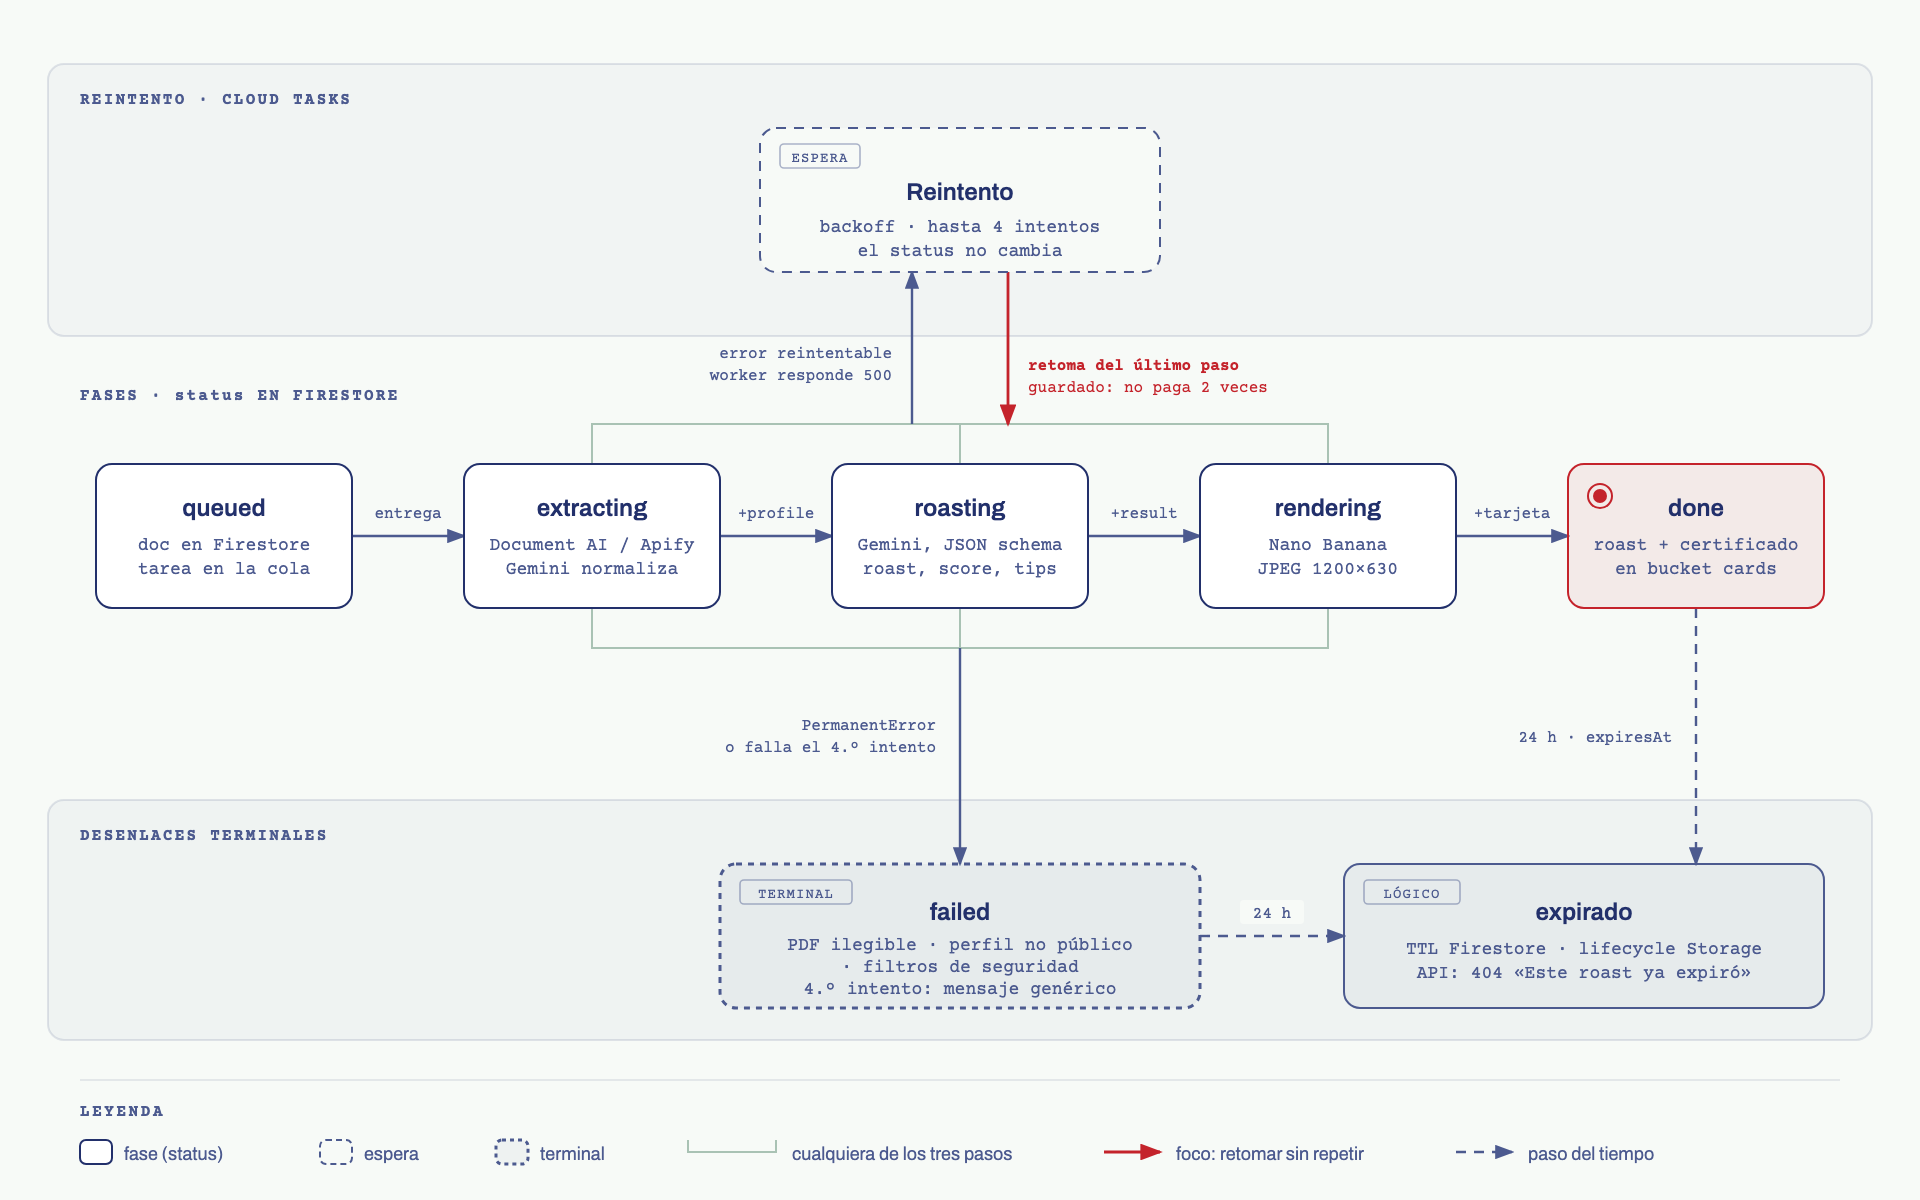
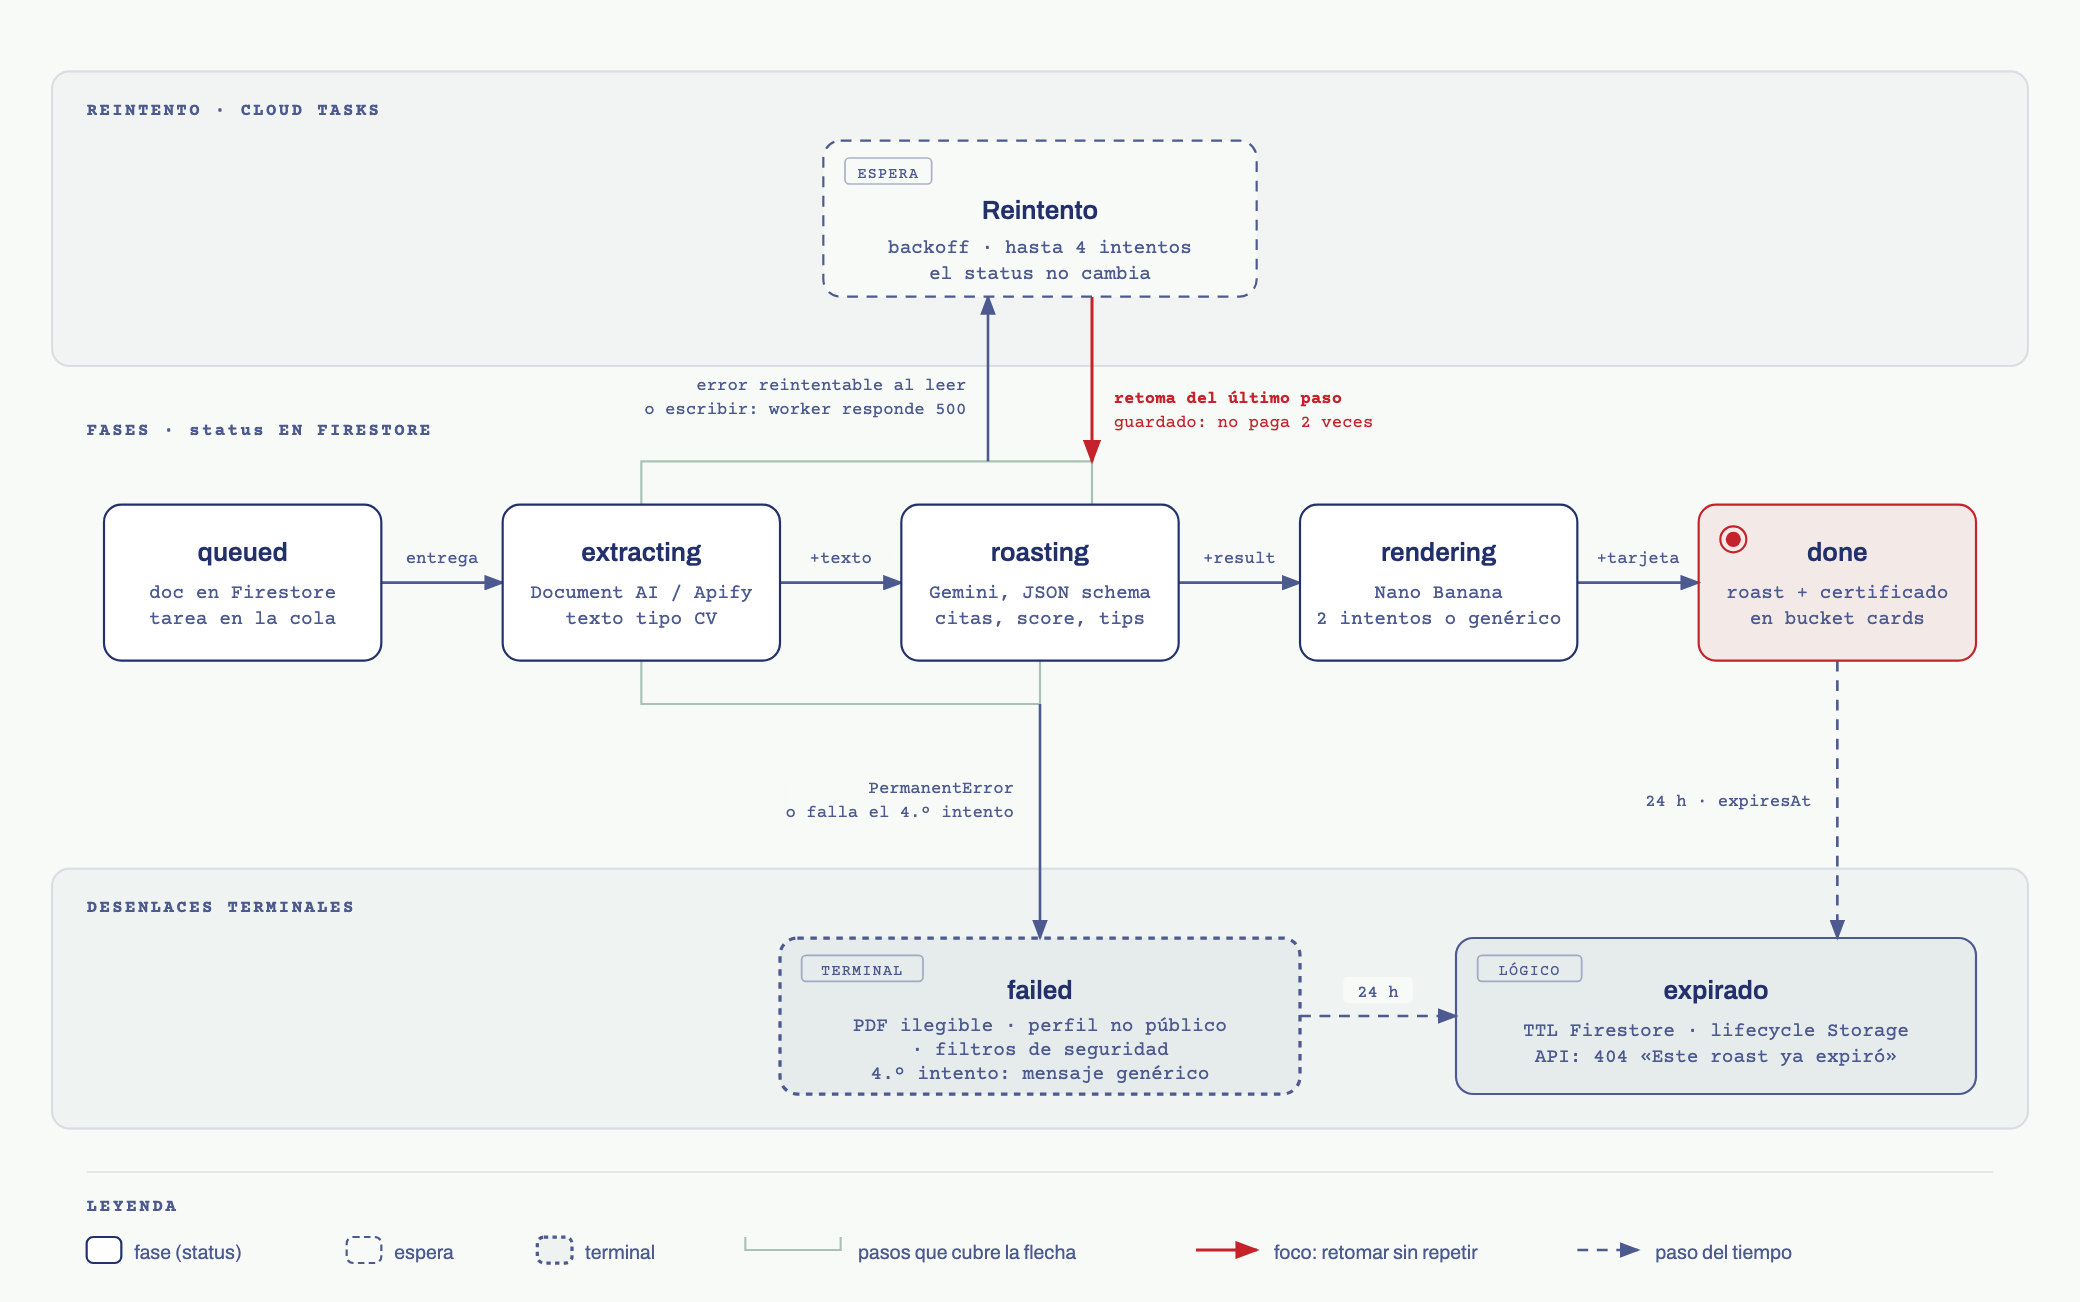
States diagram: generic-card fallback and no normalize step; Terraform adopts 74 resources
The retry bracket now covers extracting and roasting only (the card retries in-process
and falls back to the generic certificate). terraform plan with the new log metric:
74 to import, 0 to add, 1 to change, 0 to destroy.

diff --git a/docs/diagramas/estados.html b/docs/diagramas/estados.html
@@ -57,7 +57,7 @@
 
     <svg viewBox="0 0 960 600" xmlns="http://www.w3.org/2000/svg" role="img" aria-labelledby="estados-title estados-desc">
       <title id="estados-title">Roastfolio: estados de un roast</title>
-      <desc id="estados-desc">Ciclo de vida de un roast: avanza de queued a extracting, roasting, rendering y done; un error reintentable pasa a un reintento de Cloud Tasks que retoma desde el último paso guardado sin volver a pagar, un error permanente o el cuarto intento fallido termina en failed, y a las 24 horas cualquier roast expira y la API responde 404.</desc>
+      <desc id="estados-desc">Ciclo de vida de un roast: avanza de queued a extracting, roasting, rendering y done; un error reintentable al extraer o escribir el roast pasa a un reintento de Cloud Tasks que retoma desde el último paso guardado sin volver a pagar, el certificado se intenta dos veces y si falla se usa uno genérico, un error permanente o el cuarto intento fallido termina en failed, y a las 24 horas cualquier roast expira y la API responde 404.</desc>
       <defs>
         <marker id="estados-arrow" markerWidth="8" markerHeight="6" refX="7" refY="3" orient="auto">
           <polygon points="0 0, 8 3, 0 6" fill="#4c5a8f"/>
@@ -80,10 +80,8 @@
 
       <!-- GROUP BRACKETS over / under extracting · roasting · rendering -->
       <g fill="none" stroke="#a9c2b4" stroke-width="1">
-        <path d="M296 232 V212 H664 V232"/>
-        <path d="M480 212 V232"/>
-        <path d="M296 304 V324 H664 V304"/>
-        <path d="M480 304 V324"/>
+        <path d="M296 232 V212 H504 V232"/>
+        <path d="M296 304 V324 H480 V304"/>
       </g>
 
       <!-- TRANSITIONS (drawn before states) -->
@@ -108,15 +106,15 @@
         <rect x="184" y="250" width="40" height="12" rx="2" fill="#f7faf7"/>
         <text x="204" y="259" text-anchor="middle">entrega</text>
         <rect x="366" y="250" width="44" height="12" rx="2" fill="#f7faf7"/>
-        <text x="388" y="259" text-anchor="middle">+profile</text>
+        <text x="388" y="259" text-anchor="middle">+texto</text>
         <rect x="552" y="250" width="40" height="12" rx="2" fill="#f7faf7"/>
         <text x="572" y="259" text-anchor="middle">+result</text>
         <rect x="734" y="250" width="44" height="12" rx="2" fill="#f7faf7"/>
         <text x="756" y="259" text-anchor="middle">+tarjeta</text>
 
-        <rect x="350" y="170" width="100" height="24" rx="2" fill="#f7faf7"/>
-        <text x="446" y="179" text-anchor="end">error reintentable</text>
-        <text x="446" y="190" text-anchor="end">worker responde 500</text>
+        <rect x="300" y="170" width="150" height="24" rx="2" fill="#f7faf7"/>
+        <text x="446" y="179" text-anchor="end">error reintentable al leer</text>
+        <text x="446" y="190" text-anchor="end">o escribir: worker responde 500</text>
 
         <rect x="510" y="176" width="136" height="24" rx="2" fill="#f7faf7"/>
         <text x="514" y="185" fill="#c4232b" font-weight="700">retoma del último paso</text>
@@ -145,19 +143,19 @@
           <rect x="232" y="232" width="128" height="72" rx="8" fill="#ffffff" stroke="#22306b"/>
           <text x="296" y="258" fill="#22306b" font-size="12" font-weight="600" font-family="'Archivo', sans-serif">extracting</text>
           <text x="296" y="275" fill="#4c5a8f" font-size="9" font-family="'Courier Prime', monospace">Document AI / Apify</text>
-          <text x="296" y="287" fill="#4c5a8f" font-size="9" font-family="'Courier Prime', monospace">Gemini normaliza</text>
+          <text x="296" y="287" fill="#4c5a8f" font-size="9" font-family="'Courier Prime', monospace">texto tipo CV</text>
         </g>
         <g>
           <rect x="416" y="232" width="128" height="72" rx="8" fill="#ffffff" stroke="#22306b"/>
           <text x="480" y="258" fill="#22306b" font-size="12" font-weight="600" font-family="'Archivo', sans-serif">roasting</text>
           <text x="480" y="275" fill="#4c5a8f" font-size="9" font-family="'Courier Prime', monospace">Gemini, JSON schema</text>
-          <text x="480" y="287" fill="#4c5a8f" font-size="9" font-family="'Courier Prime', monospace">roast, score, tips</text>
+          <text x="480" y="287" fill="#4c5a8f" font-size="9" font-family="'Courier Prime', monospace">citas, score, tips</text>
         </g>
         <g>
           <rect x="600" y="232" width="128" height="72" rx="8" fill="#ffffff" stroke="#22306b"/>
           <text x="664" y="258" fill="#22306b" font-size="12" font-weight="600" font-family="'Archivo', sans-serif">rendering</text>
           <text x="664" y="275" fill="#4c5a8f" font-size="9" font-family="'Courier Prime', monospace">Nano Banana</text>
-          <text x="664" y="287" fill="#4c5a8f" font-size="9" font-family="'Courier Prime', monospace">JPEG 1200×630</text>
+          <text x="664" y="287" fill="#4c5a8f" font-size="9" font-family="'Courier Prime', monospace">2 intentos o genérico</text>
         </g>
         <g>
           <rect x="784" y="232" width="128" height="72" rx="8" fill="rgba(196,35,43,0.07)" stroke="#c4232b"/>
@@ -209,7 +207,7 @@
         <rect x="248" y="570" width="16" height="12" rx="3" fill="rgba(34,48,107,0.04)" stroke="#4c5a8f" stroke-width="1.5" stroke-dasharray="2,2"/>
         <text x="270" y="580">terminal</text>
         <path d="M344 570 V576 H388 V570" fill="none" stroke="#a9c2b4" stroke-width="1"/>
-        <text x="396" y="580">cualquiera de los tres pasos</text>
+        <text x="396" y="580">pasos que cubre la flecha</text>
         <line x1="552" y1="576" x2="580" y2="576" stroke="#c4232b" stroke-width="1.4" marker-end="url(#estados-arrow-accent)"/>
         <text x="588" y="580">foco: retomar sin repetir</text>
         <line x1="728" y1="576" x2="756" y2="576" stroke="#4c5a8f" stroke-width="1.2" stroke-dasharray="5,4" marker-end="url(#estados-arrow)"/>

diff --git a/terraform/README.md b/terraform/README.md
@@ -21,7 +21,7 @@ La misma infraestructura que levantan los scripts `infra/NN-*.sh`, escrita como 
 | `build.tf` | Conexión a GitHub (2nd gen), repositorio, trigger `roastfolio-main` y permisos del agente de Cloud Build |
 | `import.tf` | Bloques `import {}` que apuntan a los recursos vivos |
 
-En total son 73 recursos.
+En total son 74 recursos.
 
 ## Requisitos
 
@@ -44,7 +44,7 @@ terraform plan
 El plan debe decir:
 
 ```
-Plan: 73 to import, 0 to add, 1 to change, 0 to destroy.
+Plan: 74 to import, 0 to add, 1 to change, 0 to destroy.
 ```
 
 El único cambio es de forma y no afecta nada: la política de limpieza `delete-old` de Artifact Registry tiene `tagState = TAG_STATE_UNSPECIFIED` porque la creó gcloud, y el provider solo acepta `ANY`, que significa lo mismo. Si ves algo `to destroy` o `must be replaced`, **no apliques**: alguien cambió el recurso a mano y hay que alinear el código primero.
